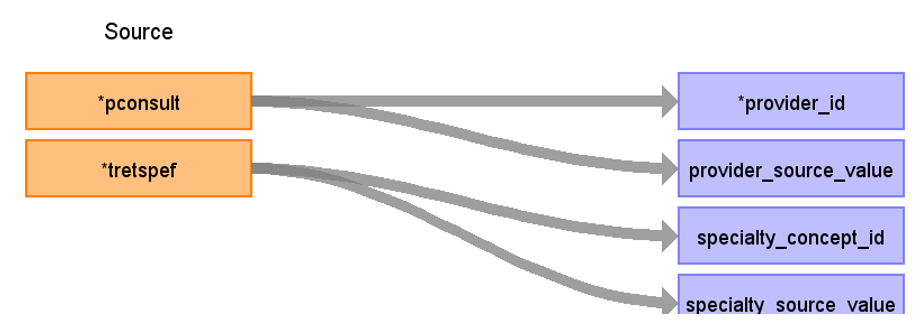
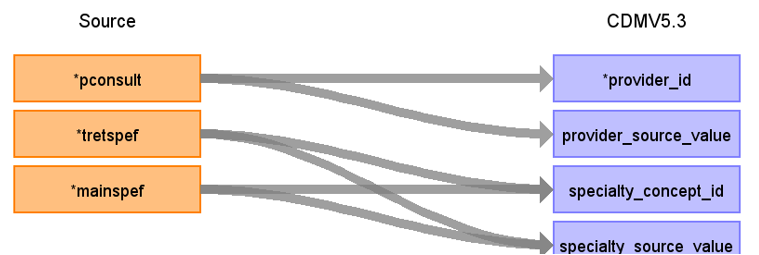
Fixing error

diff --git a/_sass/custom/custom.scss b/_sass/custom/custom.scss
@@ -1,0 +1,10 @@
+.main {
+    max-width: 80rem;
+    margin-left: 20rem;
+}
+
+.side-bar {
+    width: 20rem;
+    min-width: 20rem;
+    max-width: 20rem;
+}

diff --git a/README.md b/README.md
@@ -1,174 +1,3 @@
-# just-the-docs-template
+# ETL_NDORMS documentation
 
-This is a *bare-minimum* template to create a [Jekyll] site that:
-
-- uses the [Just the Docs] theme;
-- can be built and published on [GitHub Pages];
-- can be built and previewed locally, and published on other platforms.
-
-More specifically, the created site:
-
-- uses a gem-based approach, i.e. uses a `Gemfile` and loads the `just-the-docs` gem;
-- uses the [GitHub Pages / Actions workflow] to build and publish the site on GitHub Pages.
-
-To get started with creating a site, simply:
-
-1. click "[use this template]" to create a GitHub repository
-2. go to Settings > Pages > Build and deployment > Source, and select GitHub Actions
-
-If you want to maintain your docs in the `docs` directory of an existing project repo, see [Hosting your docs from an existing project repo](#hosting-your-docs-from-an-existing-project-repo).
-
-After completing the creation of your new site on GitHub, update it as needed:
-
-## Replace the content of the template pages
-
-Update the following files to your own content:
-
-- `index.md` (your new home page)
-- `README.md` (information for those who access your site repo on GitHub)
-
-## Changing the version of the theme and/or Jekyll
-
-Simply edit the relevant line(s) in the `Gemfile`.
-
-## Adding a plugin
-
-The Just the Docs theme automatically includes the [`jekyll-seo-tag`] plugin.
-
-To add an extra plugin, you need to add it in the `Gemfile` *and* in `_config.yml`. For example, to add [`jekyll-default-layout`]:
-
-- Add the following to your site's `Gemfile`:
-
-  ```ruby
-  gem "jekyll-default-layout"
-  ```
-
-- And add the following to your site's `_config.yml`:
-
-  ```yaml
-  plugins:
-    - jekyll-default-layout
-  ```
-
-Note: If you are using a Jekyll version less than 3.5.0, use the `gems` key instead of `plugins`.
-
-## Publishing your site on GitHub Pages
-
-1.  If your created site is `YOUR-USERNAME/YOUR-SITE-NAME`, update `_config.yml` to:
-
-    ```yaml
-    title: YOUR TITLE
-    description: YOUR DESCRIPTION
-    theme: just-the-docs
-
-    url: https://YOUR-USERNAME.github.io/YOUR-SITE-NAME
-
-    aux_links: # remove if you don't want this link to appear on your pages
-      Template Repository: https://github.com/YOUR-USERNAME/YOUR-SITE-NAME
-    ```
-
-2.  Push your updated `_config.yml` to your site on GitHub.
-
-3.  In your newly created repo on GitHub:
-    - go to the `Settings` tab -> `Pages` -> `Build and deployment`, then select `Source`: `GitHub Actions`.
-    - if there were any failed Actions, go to the `Actions` tab and click on `Re-run jobs`.
-
-## Building and previewing your site locally
-
-Assuming [Jekyll] and [Bundler] are installed on your computer:
-
-1.  Change your working directory to the root directory of your site.
-
-2.  Run `bundle install`.
-
-3.  Run `bundle exec jekyll serve` to build your site and preview it at `localhost:4000`.
-
-    The built site is stored in the directory `_site`.
-
-## Publishing your built site on a different platform
-
-Just upload all the files in the directory `_site`.
-
-## Customization
-
-You're free to customize sites that you create with this template, however you like!
-
-[Browse our documentation][Just the Docs] to learn more about how to use this theme.
-
-## Hosting your docs from an existing project repo
-
-You might want to maintain your docs in an existing project repo. Instead of creating a new repo using the [just-the-docs template](https://github.com/just-the-docs/just-the-docs-template), you can copy the template files into your existing repo and configure the template's Github Actions workflow to build from a `docs` directory. You can clone the template to your local machine or download the `.zip` file to access the files.
-
-### Copy the template files
-
-1.  Create a `.github/workflows` directory at your project root if your repo doesn't already have one. Copy the `pages.yml` file into this directory. GitHub Actions searches this directory for workflow files.
-
-2.  Create a `docs` directory at your project root and copy all remaining template files into this directory.
-
-### Modify the GitHub Actions workflow
-
-The GitHub Actions workflow that builds and deploys your site to Github Pages is defined by the `pages.yml` file. You'll need to edit this file to that so that your build and deploy steps look to your `docs` directory, rather than the project root.
-
-1.  Set the default `working-directory` param for the build job.
-
-    ```yaml
-    build:
-      runs-on: ubuntu-latest
-      defaults:
-        run:
-          working-directory: docs
-    ```
-
-2.  Set the `working-directory` param for the Setup Ruby step.
-
-    ```yaml
-    - name: Setup Ruby
-        uses: ruby/setup-ruby@v1
-        with:
-          ruby-version: '3.1'
-          bundler-cache: true
-          cache-version: 0
-          working-directory: '${{ github.workspace }}/docs'
-    ```
-
-3.  Set the path param for the Upload artifact step:
-
-    ```yaml
-    - name: Upload artifact
-        uses: actions/upload-pages-artifact@v1
-        with:
-          path: "docs/_site/"
-    ```
-
-4.  Modify the trigger so that only changes within the `docs` directory start the workflow. Otherwise, every change to your project (even those that don't affect the docs) would trigger a new site build and deploy.
-
-    ```yaml
-    on:
-      push:
-        branches:
-          - "main"
-        paths:
-          - "docs/**"
-    ```
-
-## Licensing and Attribution
-
-This repository is licensed under the [MIT License]. You are generally free to reuse or extend upon this code as you see fit; just include the original copy of the license (which is preserved when you "make a template"). While it's not necessary, we'd love to hear from you if you do use this template, and how we can improve it for future use!
-
-The deployment GitHub Actions workflow is heavily based on GitHub's mixed-party [starter workflows]. A copy of their MIT License is available in [actions/starter-workflows].
-
-----
-
-[^1]: [It can take up to 10 minutes for changes to your site to publish after you push the changes to GitHub](https://docs.github.com/en/pages/setting-up-a-github-pages-site-with-jekyll/creating-a-github-pages-site-with-jekyll#creating-your-site).
-
-[Jekyll]: https://jekyllrb.com
-[Just the Docs]: https://just-the-docs.github.io/just-the-docs/
-[GitHub Pages]: https://docs.github.com/en/pages
-[GitHub Pages / Actions workflow]: https://github.blog/changelog/2022-07-27-github-pages-custom-github-actions-workflows-beta/
-[Bundler]: https://bundler.io
-[use this template]: https://github.com/just-the-docs/just-the-docs-template/generate
-[`jekyll-default-layout`]: https://github.com/benbalter/jekyll-default-layout
-[`jekyll-seo-tag`]: https://jekyll.github.io/jekyll-seo-tag
-[MIT License]: https://en.wikipedia.org/wiki/MIT_License
-[starter workflows]: https://github.com/actions/starter-workflows/blob/main/pages/jekyll.yml
-[actions/starter-workflows]: https://github.com/actions/starter-workflows/blob/main/LICENSE
+NDORMS OMOP CDM Building documentation.

diff --git a/ONS_Mortality/ONS_Death.md b/ONS_Mortality/ONS_Death.md
@@ -1,0 +1,42 @@
+---
+layout: default
+title: Death 
+nav_order: 1
+parent: ONS Mortality
+description: "Death mapping from ONS Death table"
+---
+
+# CDM Table name: DEATH (Tentative name: Death_ONS in database)
+
+## Reading from ONS.Death
+
+Linkage between ONS Mortality data and CPRD primary care data uses an eight-step deterministic linkage algorithm based on four identifiers, shown in Table 1 below. Postcode in the ONS data is based on the usual residence of the deceased as recorded in the death registration data. The linkage is undertaken by NHS Digital, acting as a trusted-third party, on behalf of CPRD. No personal identifiers are held by CPRD, or included in the CPRD GOLD, CPRD Aurum, or linked death registration data.
+
+| Step | Match |
+| --- | --- |
+| 1 | Exact NHS number, sex, date of birth (DOB), postcode |
+| 2 | Exact NHS number, sex, DOB |
+| 3 | Exact NHS number, sex, postcode, partial DOB |
+| 4 | Exact NHS number, sex, partial DOB |
+| 5 | Exact NHS number, postcode |
+| 6 | Exact sex, DOB and postcode(where the NHS number does not contradict the match, the DOB is not 1st of January and the postcode is not on the communal establishment list) |
+| 7 | Exact sex, DOB and postcode(where the NHS number does not contradict the match and the DOB is not 1st of January) |
+| 8 | Exact NHS number | 
+
+The matching steps are applied sequentially. If a CPRD GOLD or CPRD Aurum patient record is matched in one step, it is no longer available for matching in subsequent steps.
+
+CPRD provides users with a match_rank variable which corresponds to the step at which the match was established. In general, a lower value for the match_rank is considered stronger evidence for a positive match. 
+
+**ONLY records with match_rank =1 or 2 are used in our mapping.**
+
+![](images/image02.png)
+
+| Destination Field | Source field | Logic | Comment field |
+| --- | --- | --- | --- |
+| person_id | patid | | |
+| death_date | dod | | |
+| death_datetime | dod | | |
+| death_type_concept_id | | Use [**32815** - Death Certificate](https://athena.ohdsi.org/search-terms/terms/32815) | |
+| cause_concept_id | cause | concept.concept_id | |
+| cause_source_value | cause | | |
+| cause_source_concept_id | cause | concept.concept_id | |

diff --git a/HES_APC/HESAPC_Person.md b/HES_APC/HESAPC_Person.md
@@ -27,7 +27,7 @@ The patients mapped to the CDM from HES APC in this instance were restricted to 
 | month_of_birth |NULL |  | |
 | day_of_birth | NULL |  |  |
 | birth_datetime | NULL |  |  |
-| race_concept_id | gen_ethnicity | | race_concept_id will be mapped to SNOMED Concept_id by using gen_ethnicity to retrieve the target_concept_id from source_to_standard_vocab_map where source_vocabulary_id = "CPRD_ETHIC_STCM"|
+| race_concept_id | gen_ethnicity | | race_concept_id will be mapped to SNOMED Concept_id by using gen_ethnicity to retrieve the target_concept_id from source_to_standard_vocab_map where source_vocabulary_id = "CPRD_ETHNIC_STCM"|
 | ethnicity_concept_id | NULL |  |   |
 | location_id | NULL |  |  |
 | provider_id | NULL |  |  |
@@ -35,7 +35,7 @@ The patients mapped to the CDM from HES APC in this instance were restricted to 
 | person_source_value | patid |  |  |
 | gender_source_value | NULL|  | |
 | gender_source_concept_id |NULL  |  |  |
-| race_source_value | gen_ethnicity| | race_concept_id will be mapped to SNOMED Concept_id by using gen_ethnicity to retrieve the target_concept_id from source_to_standard_vocab_map where source_vocabulary_id = "CPRD_ETHIC_STCM"|
+| race_source_value | gen_ethnicity| | race_concept_id will be mapped to SNOMED Concept_id by using gen_ethnicity to retrieve the target_concept_id from source_to_standard_vocab_map where source_vocabulary_id = "CPRD_ETHNIC_STCM"|
 | race_source_concept_id | NULL | |
 | ethnicity_source_value | NULL |  |  | 
 

diff --git a/HES_AE/HESAE_Person.md b/HES_AE/HESAE_Person.md
@@ -27,7 +27,7 @@ The patients mapped to the CDM from HES A&E in this instance were restricted to 
 | month_of_birth |NULL |  | |
 | day_of_birth |NULL  |  |  |
 | birth_datetime |NULL  |  |  |
-| race_concept_id | gen_ethnicity | | race_concept_id will be mapped to SNOMED Concept_id by using gen_ethnicity to retrieve the target_concept_id from source_to_standard_vocab_map where source_vocabulary_id = "CPRD_ETHIC_STCM"|
+| race_concept_id | gen_ethnicity | | race_concept_id will be mapped to SNOMED Concept_id by using gen_ethnicity to retrieve the target_concept_id from source_to_standard_vocab_map where source_vocabulary_id = "CPRD_ETHNIC_STCM"|
 | ethnicity_concept_id | NULL |  |   |
 | location_id |NULL  |  |  |
 | provider_id |NULL  |  |  |
@@ -35,6 +35,6 @@ The patients mapped to the CDM from HES A&E in this instance were restricted to 
 | person_source_value | patid |  |  |
 | gender_source_value |NULL |  | |
 | gender_source_concept_id |NULL  |  |  |
-| race_source_value | gen_ethnicity| | race_concept_id will be mapped to SNOMED Concept_id by using gen_ethnicity to retrieve the target_concept_id from source_to_standard_vocab_map where source_vocabulary_id = "CPRD_ETHIC_STCM"|
+| race_source_value | gen_ethnicity| | race_concept_id will be mapped to SNOMED Concept_id by using gen_ethnicity to retrieve the target_concept_id from source_to_standard_vocab_map where source_vocabulary_id = "CPRD_ETHNIC_STCM"|
 | race_source_concept_id | NULL | |
 | ethnicity_source_value | NULL |  |  | 

diff --git a/HES_APC/HESAPC_Provider.md b/HES_APC/HESAPC_Provider.md
@@ -21,12 +21,12 @@ Use the hes_episodes table to populate the provider table. In HES APC, the Pcons
 | provider_name | NULL |  |  |
 | npi | NULL |  |  |
 | dea | NULL |  |  |
-| specialty_concept_id | tretspef | 	If tretspef is not null then concept_id (tretspef) else 0, domain_id='provider' and Vocabulary_id='HES Specialty' and standard_concept='s' | Mainspef are not unique per consultant, so better to record pairs of (consultatnt,soecialty) to be used across the episodes |
+| specialty_concept_id | tretspef,mainspef | 	If tretspef is not null then tretspef else Mainspef, domain_id='provider' and Vocabulary_id='HES Specialty' and standard_concept='s' |  |
 | care_site_id |NULL | | |
 | year_of_birth | NULL |  |  |
 | gender_concept_id | NULL | |  |
 | provider_source_value | pconsult |  |  |
-| specialty_source_value | tretspef | | |
+| specialty_source_value | tretspef,mainspef | 	If tretspef is not null then tretspef else Mainspef, domain_id='provider' and Vocabulary_id='HES Specialty' and standard_concept='s' |  |
 | specialty_source_concept_id | NULL |  | |
 | gender_source_value | NULL| |  |
 | gender_source_concept_id | NULL |  | |

diff --git a/HES_AE/HESAE_STEM.md b/HES_AE/HESAE_STEM.md
@@ -14,9 +14,11 @@ The stem_table is a staging area where HES A&E source codes like Read codes will
 **Reading from hes_diagnosis_epi**
 
 ![](images/image12.png)
+
 **Figure.1**
 
 |**Destination Field** |**Source field**|**Logic**|**Comment field**|
+| --- | 
 | id||Removed for performance reasons||
 | domain_id | NULL | | |
 | person_id | patid| Use patid to lookup Person_id in the  Person table| |
@@ -39,7 +41,7 @@ The stem_table is a staging area where HES A&E source codes like Read codes will
 | value_as_string |NULL | | |
 | value_as_concept_id |NULL | | |
 | value_source_value |NULL | | |
-| end_datetime | NULL| | |
+| end_datetime | hesae_attendance.arrivaldate | Lookup the arrivaldate in the hesae_attendance table using the following filters: Where hesae_attendance.patid = hesae_diagnosis.patid AND hesae_attendance.aekeay = hesae_diagnosis.aekey | |
 | verbatim_end_date | NULL| | | 
 | days_supply |NULL | | |
 | dose_unit_source_value |NULL | | |

diff --git a/HES_OP/HESOP_Person.md b/HES_OP/HESOP_Person.md
@@ -35,7 +35,7 @@ The patients mapped to the CDM from HES OP in this instance were restricted to t
 | person_source_value | patid |  |  |
 | gender_source_value |NULL |  | |
 | gender_source_concept_id | NULL |  |  |
-| race_source_value | gen_ethnicity| | race_concept_id will be mapped to SNOMED Concept_id by using gen_ethnicity to retrieve the target_concept_id from source_to_standard_vocab_map where source_vocabulary_id = "CPRD_ETHIC_STCM"|
+| race_source_value | gen_ethnicity| | race_concept_id will be mapped to SNOMED Concept_id by using gen_ethnicity to retrieve the target_concept_id from source_to_standard_vocab_map where source_vocabulary_id = "CPRD_ETHNIC_STCM"|
 | race_source_concept_id | NULL | |
 | ethnicity_source_value | NULL |  |  | 
 

diff --git a/HES_APC/HESAPC_Visit_detail_v5.4.md b/HES_APC/HESAPC_Visit_detail_v5.4.md
@@ -27,7 +27,7 @@ description: "Visit_detail v5.4 description"
 | provider_id | pconsult,tretspef |  | Provider_id from PROVIDER using pconsult and tretspef |
 | care_site_id |NULL |  |  |
 | visit_detail_source_value | epikey | | This will allow us to retrieve visit_detail_id using patid. |
-| visit_detail_source_concept_id |  |  | 32828 |
+| visit_detail_source_concept_id | NULL |  |  |
 | admitting_from_source_concept_id | admimeth |  | Definition to be added instead of number |
 | admitting_from_source_value | admimeth |  | Check for OMOP codes from admimeth |
 | discharge_to_concept_id | dismeth |  | Definition to be added instead of number |

diff --git a/ONS_Mortality/ONS Mortality.md b/ONS_Mortality/ONS Mortality.md
@@ -2,17 +2,13 @@
 layout: default
 title: ONS Mortality
 nav_order: 5
-description: "Office for National Statistics (ONS) Mortality  (OP) ETL Documentation"
+description: "Office for National Statistics (ONS) Mortality ETL Documentation"
 has_children: true
 permalink: /docs/ONS_Mortality
 ---
 
 # Office for National Statistics (ONS) Mortality ETL Documentation
 
-*Coming Soon.....*
+These materials are meant to serve as documentation and reference for how the ONS Mortality data was converted to the OMOP Common Data Model (CDM).
 
-
-## Change log
-
-### 28-Mar-2024
-- Creation of documentation
+![](images/image01.png)

diff --git a/HES_AE/HESAE_Visit_Detail.md b/HES_AE/HESAE_Visit_Detail.md
@@ -31,7 +31,7 @@ description: "Visit_Detil mapping from hesae_attendance tables"
 | provider_id |NULL |  | |
 | care_site_id |NULL |  |  |
 | visit_detail_source_value | aekey | | This will allow us to retrieve visit_detail_id using patid. |
-| visit_detail_source_concept_id |  |  | 32828 |
+| visit_detail_source_concept_id | NULL |  | |
 | admitting_source_concept_id | aerefsource |  | Definition to be added instead of number |
 | admitting_source_value | aerefsource |  | Check for OMOP codes from aerefsource |
 | discharge_to_concept_id |NULL |  |  |

diff --git a/HES_OP/HESOP_Provider.md b/HES_OP/HESOP_Provider.md
@@ -25,7 +25,7 @@ Use the hesop_clinical table to populate the provider table.
 | care_site_id | NULL| | |
 | year_of_birth | NULL |  |  |
 | gender_concept_id | NULL | |  |
-| provider_source_value | |  | Create a dummy provider_source_value since we do not have an actual provider |
+| provider_source_value | NULL |  | |
 | specialty_source_value | tretspef, mainspef | If tretspef is not null then tretspef else mainspef|
 | specialty_source_concept_id |NULL  |  | |
 | gender_source_value | NULL| |  |
